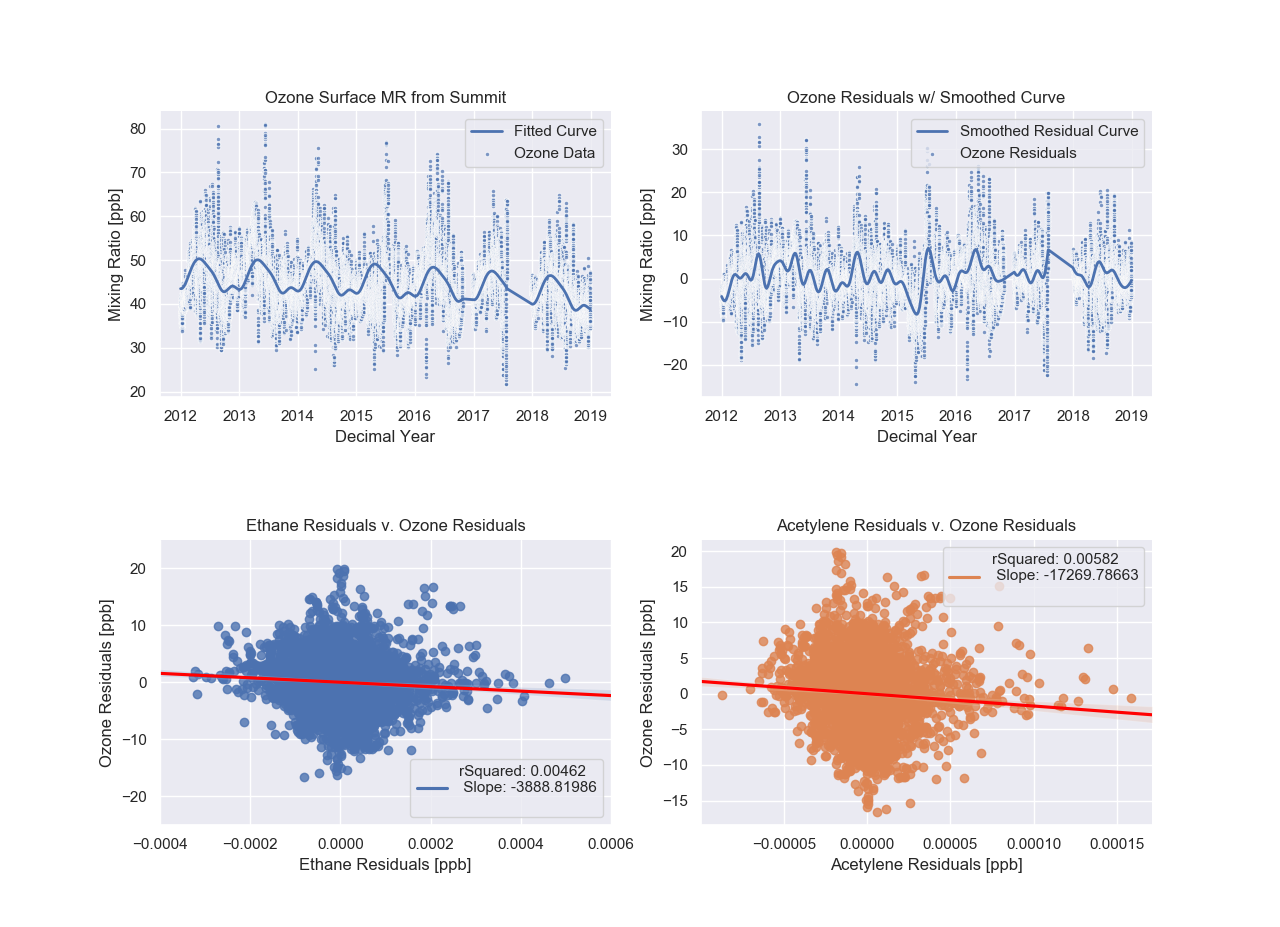
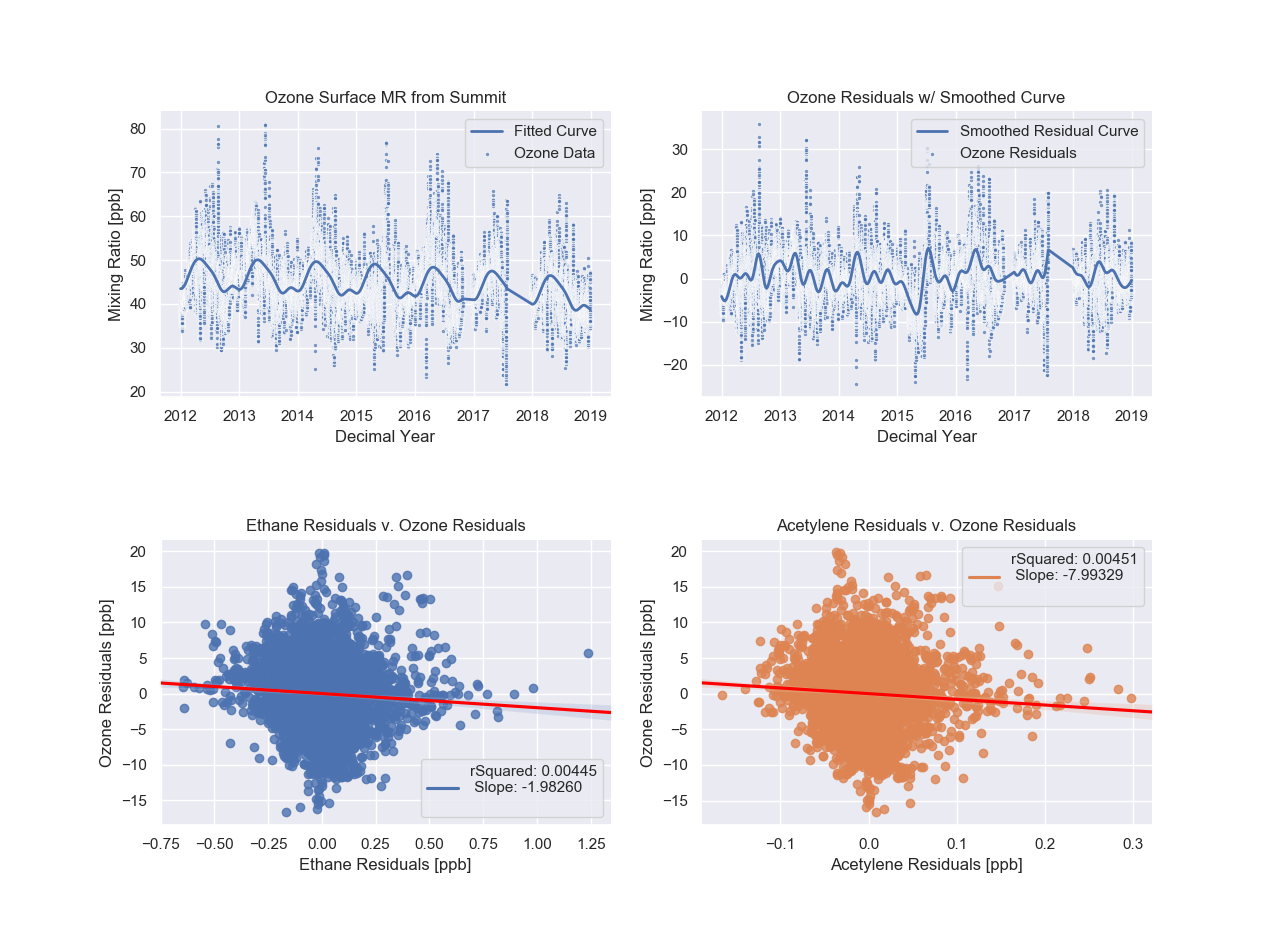
created ozone plots with standard nmhc values instead of ratios, turned files into functions, general cleanup

diff --git a/analyses/HarmonicFit/ozone2.py b/analyses/HarmonicFit/ozone2.py
@@ -1,6 +1,6 @@
 """
-Created on June 4th, 2019. This script compares surface ozone data with hourly resolution from Summit (SUM) station
-in Greenland with the ethane/methane and acetylene/methane ratios developed and analyzed in 'ratioComparison.py.
+Created on June 6th, 2019. This script compares surface ozone data with hourly resolution from Summit (SUM) station
+in Greenland with Summit GC ethane and acetylene data. 'ozone.py' compares the ozone with the residual values
 
 The ozone data used here is courtesy of NOAA ESRL GMD. See the citation below.
 
@@ -15,23 +15,18 @@ import seaborn as sns
 import numpy as np
 from sklearn.linear_model import LinearRegression
 
-
-def ozonePlot():
-    # Importing Data
-    root = r'C:\Users\ARL\Desktop\J_Summit\analyses\HarmonicFit\textfiles'                      # root source
+def ozonePlot2():
+    # Import Data
+    root = r'C:\Users\ARL\Desktop\J_Summit\analyses\HarmonicFit\textfiles'  # root source
     ozone = pd.read_csv(root + r'\ozone.txt', encoding='utf8', delim_whitespace=True,
-                        header=None)                                                            # import as csv
-    ethane = pd.read_csv(root + r'\test1.txt', encoding='utf8', delim_whitespace=True)
-    ace = pd.read_csv(root + r'\aceDefault.txt', encoding='utf8', delim_whitespace=True)
+                        header=None)
     ozone.columns = ['date', 'value', 'function', 'resid', 'resid_smooth']
-    print('Data Imported...')
+    ethane = pd.read_csv(root + r'\ethane.txt', encoding='utf8', delim_whitespace=True)
+    ace = pd.read_csv(root + r'\acetylene.txt', encoding='utf8', delim_whitespace=True)
 
-    # Graphing with Seaborn -- Setup Subplots
     sns.set()
-    f, ax = plt.subplots(ncols=2, nrows=2)                                                      # seaborn setup
-    sns.despine(f)                                                                              # remove right/top axes
-    flatui = ["#9b59b6", "#3498db", "#95a5a6", "#e74c3c", "#34495e", "#2ecc71"]                 # color palette
-    sns.set_palette(flatui)
+    f, ax = plt.subplots(ncols=2, nrows=2)
+    sns.despine(f)
     plt.subplots_adjust(left=None, bottom=None, right=None, top=None, wspace=None, hspace=0.5)  # adjust plot spacing
 
     # ----
@@ -63,7 +58,7 @@ def ozonePlot():
     # Create new dataframes for residual comparison
     titles_old = ['date', 'value', 'residuals']
     ace_titles_new = ['date_ace', 'value_ace', 'resid_ace']
-    eth_titles_new =['date_eth', 'value_eth', 'resid_eth']
+    eth_titles_new = ['date_eth', 'value_eth', 'resid_eth']
 
     # drop unused columns for speed
     ethDrop = ethane.drop(labels=(ethane.columns[np.logical_and((np.logical_and(ethane.columns != titles_old[0],
@@ -73,58 +68,53 @@ def ozonePlot():
                                                                           ace.columns != titles_old[1])),
                                                           ace.columns != titles_old[2])]), axis=1)
 
-    ethDrop.columns = eth_titles_new                                                            # rename columns
+    ethDrop.columns = eth_titles_new  # rename columns
     aceDrop.columns = ace_titles_new
 
     # Trim the data and assign equivalent date conditions
-    earlyVals = ~(ozone['date'] < ethDrop['date_eth'][0])                                       # early ozone vals
-    ozone = ozone[earlyVals]                                                                    # remove those vals
-    ozone = ozone.reset_index()                                                                 # reset index
-    ozone = ozone.drop('index', axis=1)                                                         # remove unnece column
+    earlyVals = ~(ozone['date'] < ethDrop['date_eth'][0])  # early ozone vals
+    ozone = ozone[earlyVals]  # remove those vals
+    ozone = ozone.reset_index()  # reset index
+    ozone = ozone.drop('index', axis=1)  # remove unnece column
 
-    ozoneEthane = pd.concat([ozone, ethDrop], sort=False, axis=1)                               # combine datasets
+    ozoneEthane = pd.concat([ozone, ethDrop], sort=False, axis=1)  # combine datasets
     ozoneData = pd.concat([ozoneEthane, aceDrop], sort=False, axis=1)
     ozoneData['date_ace'] = ozoneData['date_eth']
 
-    """
-    This for loop is brutally slow, is there any way to fix this? Perhaps with a seperate function but that would take 
-    the same length. I'm not sure if theres a built in function to reduce the size of an array by averging values into 
-    the size of another array 
-    """
     dataClean = []
-    tolerence = 1 / 365                                                                         # ozone valus within day
+    tolerence = 1 / 365  # ozone valus within day
     for index, value in ozoneData.iterrows():
-        high = value.date_eth + tolerence                                                       # upper date lim
-        low = value.date_eth - tolerence                                                        # lower date lim
-        indices = (ozoneData['date'] <= high) & (ozoneData['date'] >= low)                      # indices between
-        ozoneAv = np.nanmean(ozoneData['resid'][indices].values)                                # average of resids
+        high = value.date_eth + tolerence  # upper date lim
+        low = value.date_eth - tolerence  # lower date lim
+        indices = (ozoneData['date'] <= high) & (ozoneData['date'] >= low)  # indices between
+        ozoneAv = np.nanmean(ozoneData['resid'][indices].values)  # average of resids
         if ~np.isnan(value.resid_eth):
-            dataClean.append([ozoneAv, value.resid_eth, value.resid_ace])                       # append clean mat
+            dataClean.append([ozoneAv, value.resid_eth, value.resid_ace])  # append clean mat
 
-    ozoneFinal = pd.DataFrame(dataClean)                                                        # dataframe it
-    ozoneFinal = ozoneFinal.dropna(axis=0, how='any')                                           # drop nans
-    ozoneFinal.columns = ['OzoneResid', 'EthaneResid', 'AceResid']                              # rename columns
+    ozoneFinal = pd.DataFrame(dataClean)  # dataframe it
+    ozoneFinal = ozoneFinal.dropna(axis=0, how='any')  # drop nans
+    ozoneFinal.columns = ['OzoneResid', 'EthaneResid', 'AceResid']  # rename columns
 
     # perform linear regression statistics
     x1 = np.array(ozoneFinal['EthaneResid']).reshape(-1, 1)
     y1 = np.array(ozoneFinal['OzoneResid'])
-    model1 = LinearRegression().fit(x1, y1)                                                     # fit model
-    rSquare1, intercept1, slope1 = model1.score(x1, y1), model1.intercept_, model1.coef_        # statistics
+    model1 = LinearRegression().fit(x1, y1)  # fit model
+    rSquare1, intercept1, slope1 = model1.score(x1, y1), model1.intercept_, model1.coef_  # statistics
 
     x2 = np.array(ozoneFinal['AceResid']).reshape(-1, 1)
     y2 = np.array(ozoneFinal['OzoneResid'])
-    model2 = LinearRegression().fit(x2, y2)                                                     # fit model
-    rSquare2, intercept2, slope2 = model2.score(x2, y2), model2.intercept_, model2.coef_        # statistics
+    model2 = LinearRegression().fit(x2, y2)  # fit model
+    rSquare2, intercept2, slope2 = model2.score(x2, y2), model2.intercept_, model2.coef_  # statistics
 
     # ----
     # Ethane Residuals v. Ozone Residuals
     ax5 = sns.regplot(x='EthaneResid', y='OzoneResid', data=ozoneFinal, ax=ax[1, 0],
                       line_kws={'label': 'rSquared: {:1.5f}\n Slope: {:1.5f}\n'.format(rSquare1, slope1[0])})
-    ax5.set_title('Ethane/Ch4 Ratio Residuals v. Ozone Residuals')
-    ax5.set_xlabel('Ethane/Ch4 Ratio Residuals [ppb]')
+    ax5.set_title('Ethane Residuals v. Ozone Residuals')
+    ax5.set_xlabel('Ethane Residuals [ppb]')
     ax5.set_ylabel('Ozone Residuals [ppb]')
-    ax5.set(xlim=(-.0004, .0006))
-    ax5.set(ylim=(-25, 25))
+    # ax5.set(xlim=(-.0004, .0006))
+    # ax5.set(ylim=(-25, 25))
     ax5.legend()
     ax5.get_lines()[0].set_color('red')
     print('Plot 3 Completed')
@@ -133,8 +123,8 @@ def ozonePlot():
     # Acetylene Residuals v. Ozone Residuals
     ax6 = sns.regplot(x='AceResid', y='OzoneResid', data=ozoneFinal, ax=ax[1, 1],
                       line_kws={'label': 'rSquared: {:1.5f}\n Slope: {:1.5f}\n'.format(rSquare2, slope2[0])})
-    ax6.set_title('Acetylene/Ch4 Ratio Residuals v. Ozone Residuals')
-    ax6.set_xlabel('Acetylene/Ch4 Ratio Residuals [ppb]')
+    ax6.set_title('Acetylene Residuals v. Ozone Residuals')
+    ax6.set_xlabel('Acetylene Residuals [ppb]')
     ax6.set_ylabel('Ozone Residuals [ppb]')
     ax6.legend()
     ax6.get_lines()[0].set_color('red')
@@ -142,11 +132,6 @@ def ozonePlot():
 
     plt.show()
 
-    return ozone
 
 if __name__ == '__main__':
-    ozonePlot()
-
-
-
-
+    ozonePlot2()

diff --git a/analyses/HarmonicFit/genFuncs/ethaneAndAce.py b/analyses/HarmonicFit/genFuncs/ethaneAndAce.py
@@ -1,0 +1,37 @@
+"""
+Created on Thursday June 6th, 2019
+
+This simple function creates optimized text files of ethane and acetylene to use with the NOAA Harmonic Curve. It is
+not the ethane and acetylene ratios with methane, just the raw data.
+
+
+"""
+import numpy as np
+from fileInput import fileLoad
+from isleapyear import isleapyear
+
+
+def ethaneAce():
+
+    # Import Data Sets
+    nmhcData = fileLoad(r"C:\Users\ARL\Desktop\Python Code\Data\NMHC.xlsx")
+
+    # Cleaning Up Data
+    nmhcData = nmhcData[nmhcData['DecYear'] > 2012]  # Only need years past 2012 in VOC Data
+    reqRows = ['DecYear', 'ethane', 'acetylene']  # only need date, ethane, and acetylene
+    nmhcData = nmhcData[reqRows]  # just get required rows
+    nmhcData = nmhcData.dropna(axis=0, how='any')
+
+    with open('ethaneOriginal.txt', 'w+') as f:
+        for index, value in nmhcData.iterrows():
+            f.write('%f ' % value.DecYear)
+            f.write('%f\n' % value.ethane)
+
+    with open('aceOriginal.txt', 'w+') as f:
+        for index, value in nmhcData.iterrows():
+            f.write('%f ' % value.DecYear)
+            f.write('%f\n' % value.acetylene)
+
+
+if __name__ == '__main__':
+    ethaneAce()
